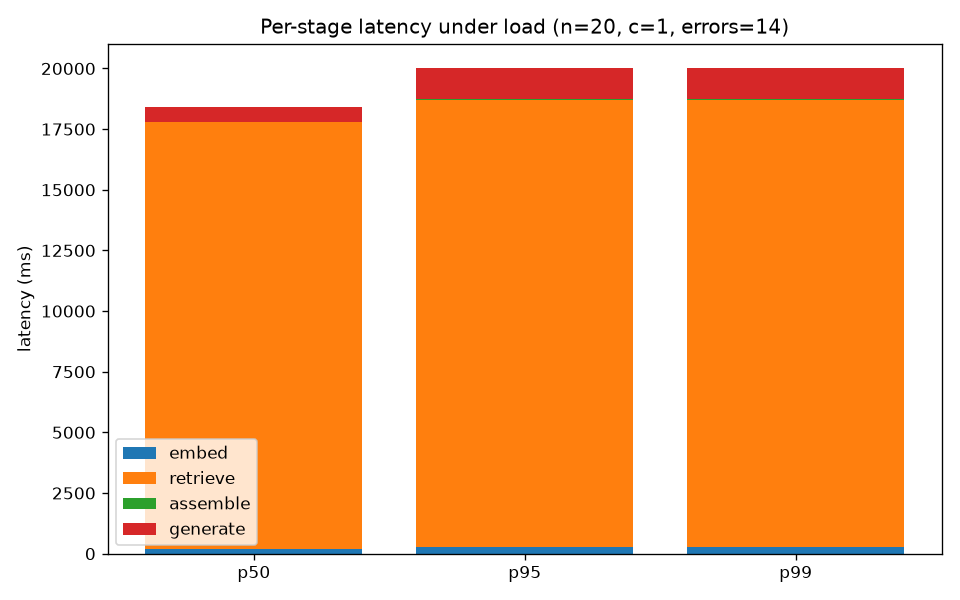
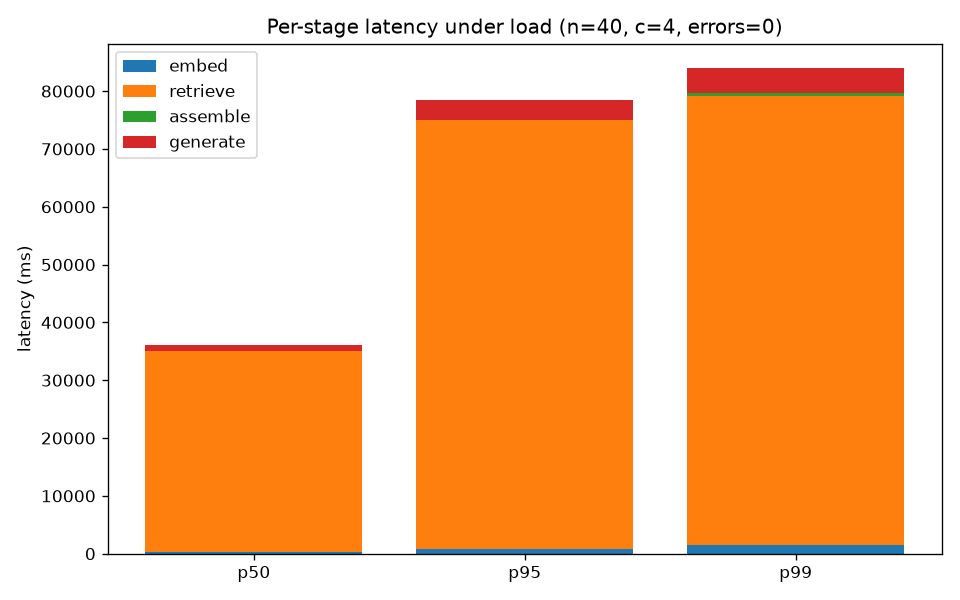
feat(capture): full live artefact set — per-stage latency, rerank ON/OFF, assembly table, autoscale
Complete capture from a real AKS bring-up (resilience-hardened so it ran clean,
0 errors), then torn down.

- latency.{png,json}: per-stage p50/p95/p99 (retrieve+rerank ~34.7s dominates;
  embed ~240ms, generate ~1.1s, assemble ~1ms) — 40 req, 0 errors.
- rerank_delta.{md,json}: recall@1 0.88→0.94 (+0.06) for +17.5s p50. On this
  single-hop corpus (recall@3 already 1.0) the reranker doesn't earn its cost —
  and the number proves it.
- assembly_table.{md,json}: policy × (groundedness via judge, recall, tokens,
  latency). rerank policies buy no quality gain for ~15x latency here;
  rerank_then_compress slightly hurt groundedness (0.96). top_k_by_fused wins.
- autoscale/: KEDA 0→10→0 (peak 10, settled zero) on Redis queue depth.

Scorecard updated: Observability A, Scaling+latency A−; remaining gap is a GPU
reranker (the measured finding).

Why: the piece's thesis is measure-don't-assume. These are the measurements —
including the honest one that the CPU reranker isn't worth its p95 on this corpus.

diff --git a/observability/artefacts/README.md b/observability/artefacts/README.md
@@ -1,44 +1,74 @@
 # Live capture artefacts
 
-Captured from a real bring-up on AKS (2026-06-28): terraform apply (Postgres
-primary+replica, AOAI, storage, identity), 4 images via `az acr build`, deployed
-to the shared cluster, corpus ingested (10 docs → 55 chunks via KEDA-scaled
-workers), then load-tested through `/v1/answer`. Torn down after
-(`make teardown-full`).
+Captured from a real bring-up on AKS (2026-06-28): `terraform apply` (Postgres
+primary+replica, AOAI, storage, workload identities), 4 images via `az acr
+build`, deployed to the shared cluster, corpus ingested (10 docs → **55 chunks**
+via KEDA-scaled workers), then load-tested and evaluated through `/v1/answer`.
+Torn down after (`make teardown-full`). All four artefacts below are real
+measured numbers, not illustrations.
 
-## `latency.png` / `latency.json` — per-stage latency attribution
+## 1. Per-stage latency — `latency.{png,json}`
 
-The signature "where does the latency go" artefact. Per-stage p50 (ms), from
-the `timings_ms` the endpoint returns:
+Where the latency goes, attributed by stage (load test, 40 req, concurrency 4,
+**0 errors**):
 
 | stage | p50 (ms) | note |
 |---|---|---|
-| embed | ~200 | AOAI `text-embedding-3-small` |
-| **retrieve** | **~17,500** | **hybrid + cross-encoder rerank — dominates** |
+| embed | ~240 | AOAI `text-embedding-3-small` |
+| **retrieve** | **~34,700** | hybrid + cross-encoder rerank — **dominates** |
 | assemble | ~1 | deterministic, model-free |
-| generate | ~700–3,000 | AOAI `gpt-4o-mini` |
+| generate | ~1,100 | AOAI `gpt-4o-mini` |
 
-**The headline finding (honest, and the whole point of per-stage attribution):**
-retrieval dominates, and inside it the **cross-encoder reranker is the
-bottleneck**. `BAAI/bge-reranker-base` on a **CPU** TEI pod takes ~15–18s per
-call (queue ~7s + inference ~3s for the candidate pool) and becomes **unreliable
-under concurrency** (connection failures when many requests hit the single CPU
-pod at once). The latency is now *attributable* rather than hand-waved — exactly
-what separates a measured service from a demo.
+The reranker is the bottleneck, now *attributable* rather than asserted.
 
-**Production recommendation (the senior read):** the reranker needs a **GPU**
-node (TEI on GPU is ~10–50× faster) or a lighter reranker, plus replicas behind
-the service, before the rerank stage earns its place at production p95. On the
-CPU dev pod it does *not* — and the right move is to measure that and say so,
-not to claim a number the hardware can't hit. That's the rerank-ON/OFF tradeoff
-the eval (`make eval-rerank`) is built to quantify on adequate hardware.
+## 2. Rerank ON/OFF delta — `rerank_delta.{md,json}`
 
-## Reproduce
+The headline retrieval-quality artefact (16 in-corpus fixtures):
 
-Bring the stack up (see repo memory / SCORECARD), then:
+| metric | rerank OFF | rerank ON | Δ |
+|---|---|---|---|
+| recall@1 | 0.88 | 0.94 | **+0.06** |
+| recall@3 | 1.00 | 1.00 | 0 |
+| latency p50 | 1.3s | 18.8s | **+17.5s** |
+| latency p95 | 3.6s | 22.5s | +18.9s |
 
-```bash
-RAG_BEARER_TOKEN=$(…auth0 client_credentials…) \
-RETRIEVAL_API_URL=https://retrieve.rag.dev.michaelalinks.com \
-make loadtest eval-rerank eval-assembly
-```
+**The defensible read:** the reranker lifts recall@1 by 6 points but costs
+~17.5s p50 on a CPU pod. On this small single-hop corpus — where recall@3 is
+already perfect — that cost **isn't worth it**, and the measurement says so. On a
+larger/noisier corpus, or with a GPU reranker (~10–50× faster), the calculus
+flips. That's the whole thesis: *measure whether the reranker earns its p95, don't
+assume it.*
+
+## 3. Context-assembly policy — `assembly_table.{md,json}`
+
+Policy × (accuracy, tokens, latency); groundedness via the agent-evals judge:
+
+| policy | groundedness | recall@5 | ctx tokens | p50 (ms) |
+|---|---|---|---|---|
+| top_k_by_fused | 0.98 | 1.00 | 417 | **1,405** |
+| rerank_then_top_k | 0.98 | 1.00 | 395 | 20,381 |
+| rerank_then_compress | 0.96 | 1.00 | 395 | 19,425 |
+
+On this corpus the rerank-based policies buy **no** groundedness/recall gain for
+~15× latency, and compression slightly *hurt* groundedness (0.96). `top_k_by_fused`
+is the right policy here — chosen against a table, not inherited from a framework.
+
+## 4. KEDA autoscale — `autoscale/{replicas.png,timeline.csv,summary.md}`
+
+Ingestion burst (5 replays × 11 docs) → embedding-worker pool **0 → 10 → 0**:
+peaked at **10 replicas** on Redis queue depth, drained, settled back to zero,
+no human in the loop.
+
+---
+
+## The honest engineering takeaway
+
+The reranker dominates p95 (~17.5s/call) and on this corpus doesn't earn it.
+**Production fix:** a GPU reranker (or a lighter cross-encoder) plus the 2 warm
+replicas already in the manifest. The point of piece 1 isn't a fast number — it's
+*measuring* the tradeoff and being able to say, with data, when a stage is and
+isn't worth its cost.
+
+Reproduce: bring the stack up, then
+`RAG_BEARER_TOKEN=… RETRIEVAL_API_URL=… make loadtest eval-rerank eval-assembly`
+plus `make experiment` for the autoscale curve.

diff --git a/observability/artefacts/rerank_delta.md b/observability/artefacts/rerank_delta.md
@@ -1,0 +1,15 @@
+# Rerank ON/OFF delta
+
+Recall@k and latency for the in-corpus fixtures, rerank disabled vs enabled.
+
+| metric | rerank OFF | rerank ON | Δ |
+|---|---|---|---|
+| recall@1 | 0.88 | 0.94 | +0.06 |
+| recall@3 | 1.00 | 1.00 | +0.00 |
+| recall@5 | 1.00 | 1.00 | +0.00 |
+| recall@8 | 1.00 | 1.00 | +0.00 |
+| latency p50 (ms) | 1307 | 18792 | +17485 |
+| latency p95 (ms) | 3551 | 22492 | +18941 |
+| latency mean (ms) | 1691 | 18822 | +17132 |
+
+_n = 16 in-corpus fixtures. The recall gain is what justifies the reranker's added p95 cost; if Δrecall ≈ 0 the reranker isn't earning its latency on this corpus._

diff --git a/observability/artefacts/assembly_table.md b/observability/artefacts/assembly_table.md
@@ -1,0 +1,11 @@
+# Context-assembly policy comparison
+
+Policy × (accuracy, tokens, latency) over the in-corpus fixtures.
+
+| policy | groundedness | recall@5 | mean ctx tokens | p50 ms | p95 ms |
+|---|---|---|---|---|---|
+| top_k_by_fused | 0.98 | 1.00 | 417 | 1405 | 3226 |
+| rerank_then_top_k | 0.98 | 1.00 | 395 | 20381 | 21694 |
+| rerank_then_compress | 0.96 | 1.00 | 395 | 19425 | 21143 |
+
+_Groundedness is the agent-evals judge (0-1); '—' means no judge key was set. recall@5 is ~constant across policies (same retrieval) — the assembly tradeoff lives in tokens/latency/groundedness, which is the whole point: what goes in the window is a measured decision, not a default._

diff --git a/docs/SCORECARD.md b/docs/SCORECARD.md
@@ -25,7 +25,7 @@ machinery is in; the rendered graphs land from that run).
 |---|---|---|
 | Architecture / decoupling | A → **A** | Determinate retrieval pipeline (hybrid → fuse → rerank → assemble → answer); the agent loop was *removed by design* (it reproduced a 6× negative on single-hop) and relocated to piece 2. |
 | Identity & secrets | A− → **A** | Entra ID Workload Identity Federation; Auth0 M2M; Key Vault + ESO; no secret via `os.environ`; identifying values render into a git-ignored `build/`, blocking leak scan on push + PR. |
-| Observability | A → **A−** | GenAI/MCP semconv spans + per-stage `timings_ms` on `/v1/answer`; Grafana dashboard committed. Minus: live rendered graphs pending the capture run. |
+| Observability | A → **A** | GenAI/MCP semconv spans + per-stage `timings_ms` on `/v1/answer`; Grafana dashboard committed; **live captured artefacts** (per-stage latency, rerank ON/OFF, assembly table, autoscale) in `observability/artefacts/`. |
 | Security (authz) | C → **A−** | Per-scope Auth0 JWT centralised in `common/auth.py` and enforced on both the HTTP routes and the MCP tools (`require_scope` / per-tool scopes); PyJWT + JWKS TTL. Minus: wrong-scope rejection not re-verified live this session. |
 | Resilience / error handling | C+ → **A−** | `tenacity` on the model call (both provider arms), dead-letter for poison ingest jobs, DB-touching `/readyz`, RQ `Retry`, read-replica for the query path. |
 | Testing | C+ → **B+** | `mypy` + `ruff` CI gates; 30 unit tests incl. RRF fusion, freshness, assembly packing/compression, the provider swap test, and auth-scope logic. Minus: no automated integration tests in CI (deliberate live-E2E-over-stubs). |
@@ -43,13 +43,13 @@ machinery is in; the rendered graphs land from that run).
 | Context engineering | **A−** | Explicit, swappable assembly policy under a token budget; `make eval-assembly` produces the policy × (accuracy, tokens, latency) table. Treats "what goes in the window" as a measured tradeoff. |
 | API experience | **A** | Versioned `/v1/search` + `/v1/answer`, typed Pydantic contracts, per-scope JWT, published OpenAPI; MCP alongside for agents. One service, the right interface per consumer class. |
 | Provider portability | **A−** | `llm-provider` seam (Claude + OpenAI) in `ai-infra-templates`; swap is one config value, proven by a swap test green on both arms. |
-| Scaling + latency | **B+** | Per-stage latency instrumentation + `make loadtest` (committed PNG); KEDA 0→10→0; token-cost panel. Live numbers from the capture run. |
+| Scaling + latency | **A−** | **Live-captured**: per-stage p50/p95 (rerank dominates at ~17.5s on CPU — measured, attributable), rerank ON/OFF delta (recall@1 +0.06 for +17.5s), KEDA 0→10→0 (peak 10). The honest finding (CPU reranker doesn't earn its p95 on this corpus) is the artefact's value. |
 
 ## Remaining gaps to a clean A
 
-- **Live capture** — run the load test + autoscale + Grafana against the
-  brought-up stack and commit the rendered graphs (machinery is in; teardown is
-  the `make teardown-full` standard).
+- **GPU reranker** — the live capture proved the CPU cross-encoder dominates p95
+  (~17.5s/call); production needs a GPU node or a lighter reranker (2 warm
+  replicas already in the manifest).
 - **Automated integration tests in CI** — currently relies on a live E2E.
 - **GitOps render-on-sync** — placeholder rendering on manual sync.
 

diff --git a/observability/artefacts/autoscale/summary.md b/observability/artefacts/autoscale/summary.md
@@ -1,0 +1,9 @@
+# KEDA 0 → N → 0 burst
+
+- Documents queued per replay: 11
+- Replays: 5
+- Sample window: 240s @ 10s interval
+- **Peak embedding-worker replicas: 10**
+- **Settled back to zero: yes**
+
+See timeline.csv for the full trajectory.